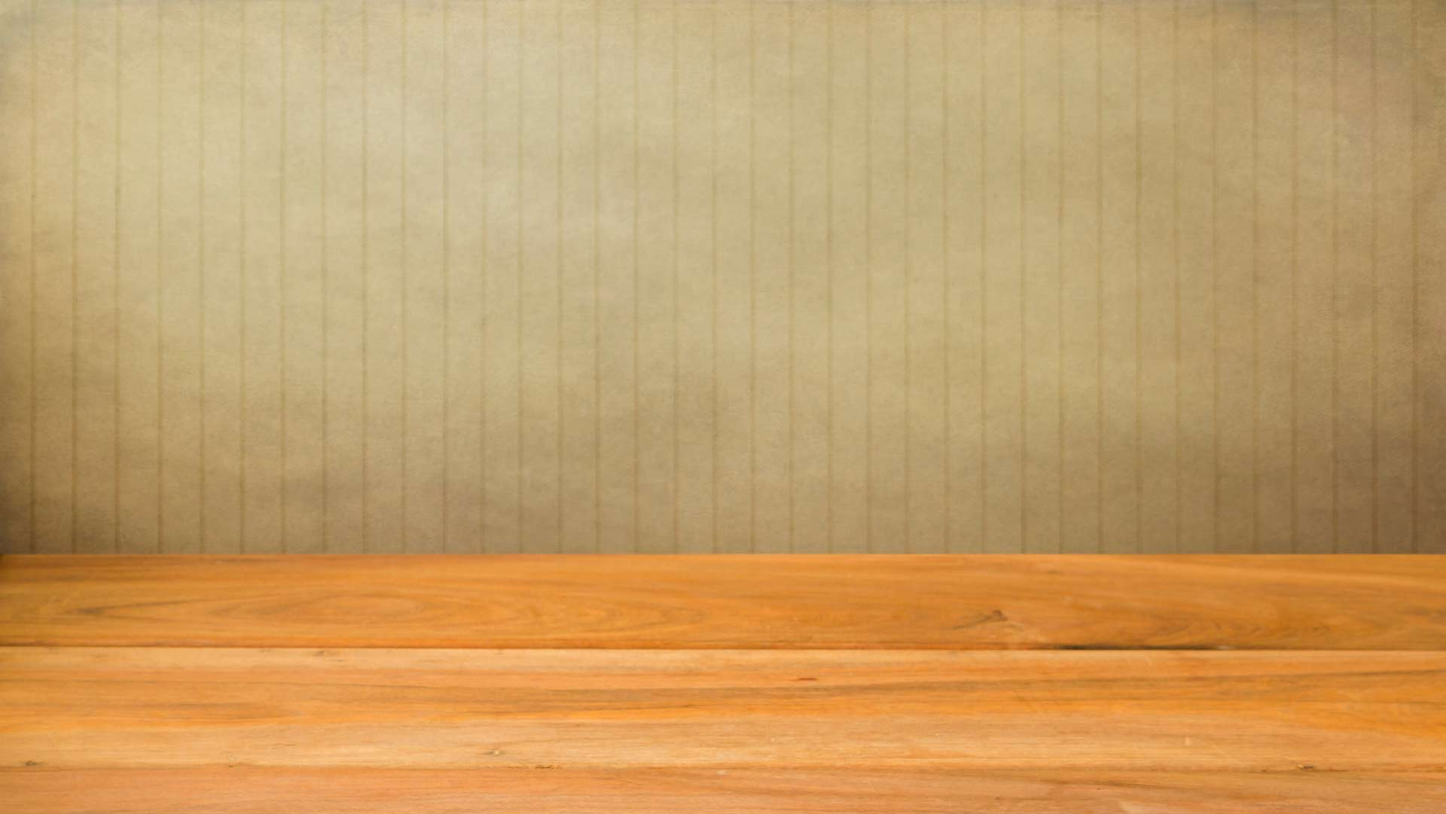
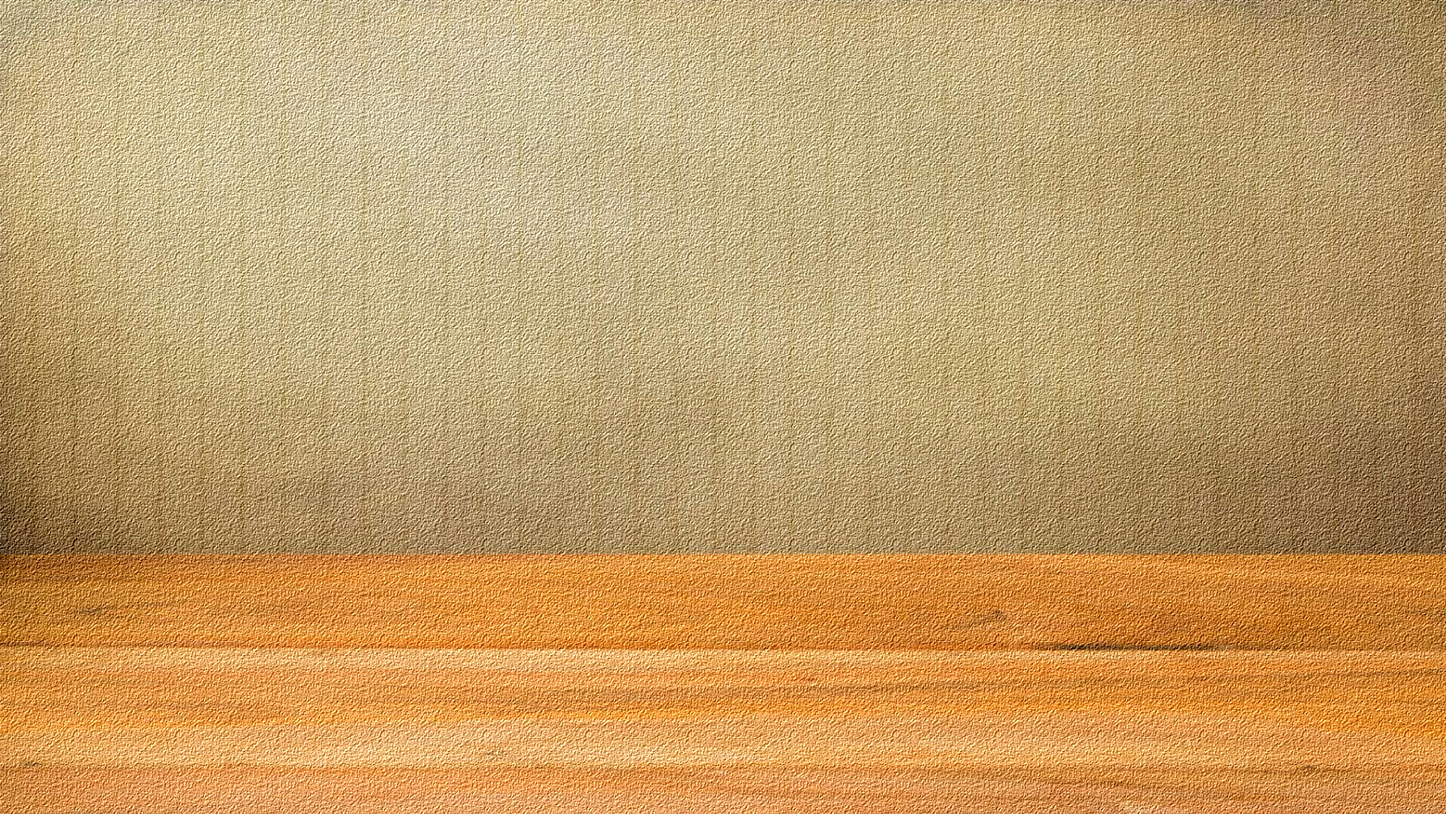
added the avacabrah, skinned buttons, background and login.

diff --git a/src/styles.css b/src/styles.css
@@ -5,14 +5,15 @@ body {
   background-repeat: no-repeat;
   background-size: cover;
   font-family: 'Roboto', sans-serif;
-  background: #E0E0E0;
-  background: url('assets/images/body.jpg');
+  /*background: #E2E4E6;*/
+  background: url('assets/images/newback.jpg');
+  background-size: cover;
 }
 
 .form-container {
-  background: whitesmoke;
+  background: beige;
   padding: 3.5em;
-  width: 500px;
+  /*width: 500px;*/
   position: fixed;
   left: 50%;
   margin-left: -250px;
@@ -29,7 +30,7 @@ button {
 
 .basic-btn {
   /*background: #37474F;*/
-  background: #F4511E;
+  background: darkred;
   color: whitesmoke;
   border-radius: 4px;
   border-color: whitesmoke;
@@ -67,12 +68,12 @@ fieldset[disabled] .basic-btn:active,
 .basic-btn.disabled.active,
 .basic-btn[disabled].active,
 fieldset[disabled] .basic-btn.active {
-  background-color: #F4511E;
+  background-color: darkred;
   border-color: #F2F2F2;
 }
 
 .basic-btn .badge {
-  color: #F4511E;
+  color: darkred;
   background-color: #FFFFFF;
 }
 
@@ -178,3 +179,4 @@ h2 {
   border-radius: 2px;
   /*width: auto;*/
 }
+

diff --git a/src/app/Favorites/favorites.component.html b/src/app/Favorites/favorites.component.html
@@ -6,15 +6,15 @@
   </header>
   <div id="mccheese_background">
     <div id="page" [@moveInLeft]="state">
-      <h2 class="banner">Hey {{ name.auth.displayName || 'Friend' }}, Welcome to Git Grub! Enjoy those Favorites.</h2>
-      <br>
-      <!--<img src="assets/images/filler.png" />-->
+      <!--<h2 class="banner">Hey {{ name.auth.displayName || 'Friend' }}, Welcome to Git Grub! Enjoy the Recipes.</h2><br>-->
     </div>
   </div>
-  <div class="form-group">
+  <h2 [@moveInLeft]="state" class="banner">Hey {{ name.auth.displayName || 'Friend' }}, Welcome to Git Grub! Enjoy the Recipes.</h2><br>
+
+  <!--<div class="form-group">-->
     <!--<input type="text" class="form-control" placeholder="search favorites...">-->
     <!--<span class="glyphicon glyphicon-fire col-sm-3"></span>-->
-  </div>
+  <!--</div>-->
 
 
   <!--content-->

diff --git a/src/app/About/about.component.html b/src/app/About/about.component.html
@@ -4,10 +4,12 @@
     <button (click)="favz()" class="basic-btn">Favorites</button>
     <button (click)="members()" class="basic-btn">Home</button>
   </header>
+  <h2 [@moveInLeft]="state" class="banner">Hey {{ name.auth.displayName || 'Friend' }}, Welcome to Git Grub! Enjoy this About Page.</h2>
+  <br>
   <div id="mccheese_background">
     <div id="page" [@moveInLeft]="state">
-      <h2 class="banner">Hey {{ name.auth.displayName || 'Friend' }}, Welcome to Git Grub! Enjoy this About Page.</h2>
-      <br>
+      <!--<h2 [@moveInLeft]="state" class="banner">Hey {{ name.auth.displayName || 'Friend' }}, Welcome to Git Grub! Enjoy this About Page.</h2>-->
+      <!--<br>-->
       <!--<img src="assets/images/filler.png" />-->
     </div>
   </div>

diff --git a/src/index.html b/src/index.html
@@ -8,6 +8,7 @@
 <link media="all" type="text/css" rel="stylesheet" href="https://cdnjs.cloudflare.com/ajax/libs/foundation/6.3.0/css/foundation-flex.min.css">
   <link rel="stylesheet" type="text/css" href="/node_modules/angular2-toaster/toaster.css" />
   <link href="https://maxcdn.bootstrapcdn.com/bootstrap/3.3.7/css/bootstrap.min.css" rel="stylesheet">
+  <link rel="stylesheet" type="text/css" href="/node_modules/angular2-toaster/toaster.css" />
   <link href="https://fonts.googleapis.com/css?family=Roboto" rel="stylesheet">
 <script src="https://cdnjs.cloudflare.com/ajax/libs/web-animations/2.2.2/web-animations.min.js"></script>
   <meta name="viewport" content="width=device-width, initial-scale=1">

diff --git a/src/app/members/members.component.html b/src/app/members/members.component.html
@@ -6,9 +6,10 @@
   </header>
   <div id="mccheese_background">
     <div id="page" [@moveInLeft]="state">
-      <h2 class="banner">Hey {{ name.auth.displayName || 'Friend' }}, Welcome to Git Grub! Enjoy the Recipes.</h2><br>
+      <!--<h2 class="banner">Hey {{ name.auth.displayName || 'Friend' }}, Welcome to Git Grub! Enjoy the Recipes.</h2><br>-->
     </div>
   </div>
+  <h2 [@moveInLeft]="state" class="banner">Hey {{ name.auth.displayName || 'Friend' }}, Welcome to Git Grub! Enjoy the Recipes.</h2><br>
   <div class="form-group">
     <input [@fallIn]="state" type="text" class="form-control" id="userSearch" required [(ngModel)]="userSearch"
            (keydown)="myFilter()"

diff --git a/src/app/About/about.component.css b/src/app/About/about.component.css
@@ -19,7 +19,7 @@ body {
 }
 
 header {
-  background: #9E9E9E;
+  background: lightgray;
   width: 100%;
   border-radius: 4px;
 }
@@ -59,10 +59,10 @@ h2 {
 .scroll-me {
   display: inline-block;
   overflow-y: scroll;
-  height: calc(100vh - 290px);
+  height: calc(100vh - 375px);
   /*margin: 0 auto;*/
   width: 100%;
-  background: #9E9E9E;
+  background: lightgray;
   border-radius: 4px;
 }
 
@@ -92,6 +92,10 @@ h2 {
   background-image: url('../../assets/images/stuff.jpg');
   color: #515151;
   border-radius: 4px;
-  background: cover;
+  background-size: cover;
+  height: 140px;
 
+}
+.banner {
+  margin-top: 30px;
 }

diff --git a/src/app/members/members.component.css b/src/app/members/members.component.css
@@ -14,7 +14,7 @@ body {
 }
 
 header {
-  background: #9E9E9E;
+  background: lightgray;
   width: 100%;
   border-radius: 4px;
 }
@@ -54,10 +54,10 @@ h2 {
 .scroll-me {
   display: inline-block;
   overflow-y: scroll;
-  height: calc(100vh - 290px);
+  height: calc(100vh - 375px);
   /*margin: 0 auto;*/
   width: 100%;
-  background: #9E9E9E;
+  background: lightgray;
   border-radius: 4px;
 }
 
@@ -87,6 +87,10 @@ h2 {
   background-image: url('../../assets/images/stuff.jpg');
   color: #515151;
   border-radius: 4px;
-  background: cover;
+  background-size: cover;
+  height: 140px;
 
+}
+.banner {
+  margin-top: 30px;
 }

diff --git a/src/app/Favorites/favorites.component.css b/src/app/Favorites/favorites.component.css
@@ -14,7 +14,7 @@
 }
 
 header {
-  background: #9E9E9E;
+  background: lightgray;
   width: 100%;
   border-radius: 4px;
 }
@@ -54,10 +54,10 @@ h2 {
 .scroll-me {
   display: inline-block;
   overflow-y: scroll;
-  height: calc(100vh - 290px);
+  height: calc(100vh - 375px);
   /*margin: 0 auto;*/
   width: 100%;
-  background: #9E9E9E;
+  background: lightgray;
   border-radius: 4px;
 }
 
@@ -87,6 +87,10 @@ h2 {
   background-image: url('../../assets/images/stuff.jpg');
   color: #515151;
   border-radius: 4px;
-  background: cover;
+  background-size: cover;
+  height: 140px;
 
+}
+.banner {
+  margin-top: 30px;
 }

diff --git a/src/app/app.module.ts b/src/app/app.module.ts
@@ -17,6 +17,7 @@ import { RecipeService } from "./Favorites/recipe.service";
 import {ToasterModule, ToasterService} from 'angular2-toaster';
 
 
+
 // Must export the config
 export const firebaseConfig = {
   apiKey: "AIzaSyBVR8A-Mawq6aJiudG-i1Aes_dVf3JTovw",
@@ -48,7 +49,7 @@ export const firebaseConfig = {
     ToasterModule
   ],
   providers: [AuthGuard, RecipeService],
-  bootstrap: [AppComponent]
+  bootstrap: [AppComponent,]
 })
 
 export class AppModule { }

diff --git a/src/app/login/login.component.html b/src/app/login/login.component.html
@@ -2,8 +2,9 @@
 
 <div class="form-container">
 
-  <h3 id="header">Welcome to Git Grub!</h3>
-  <img src="../../assets/images/mayor_mccheese.png" id="mccheese">
+  <!--<h3 id="header">Welcome to Git Grub!</h3>-->
+  <img src="../../assets/images/logo2.png" id="logo">
+  <img src="../../assets/images/avocado.gif" id="mccheese">
 
     <span class="error" *ngIf="error">{{ error }}</span>
 

diff --git a/src/app/members/members.component.ts b/src/app/members/members.component.ts
@@ -6,6 +6,7 @@ import {RecipeService} from "../Favorites/recipe.service";
 import {ToasterContainerComponent, ToasterService} from 'angular2-toaster';
 // import {bootstrapItem} from "@angular/cli/lib/ast-tools";
 
+
 @Component({
   selector: 'app-members',
   // directives: [ToasterContainerComponent],

diff --git a/src/app/Favorites/favorites.component.ts b/src/app/Favorites/favorites.component.ts
@@ -64,7 +64,7 @@ export class FavoritesComponent implements OnInit {
 
   removeFavs(recipe) {
     this.recipeService.removeFavz(recipe);
-    this.toasterService.pop('warning', 'Removed from favorites!');
+    this.toasterService.pop('warning', 'Removed', recipe.title + ' from Favorites');
   }
 
 
